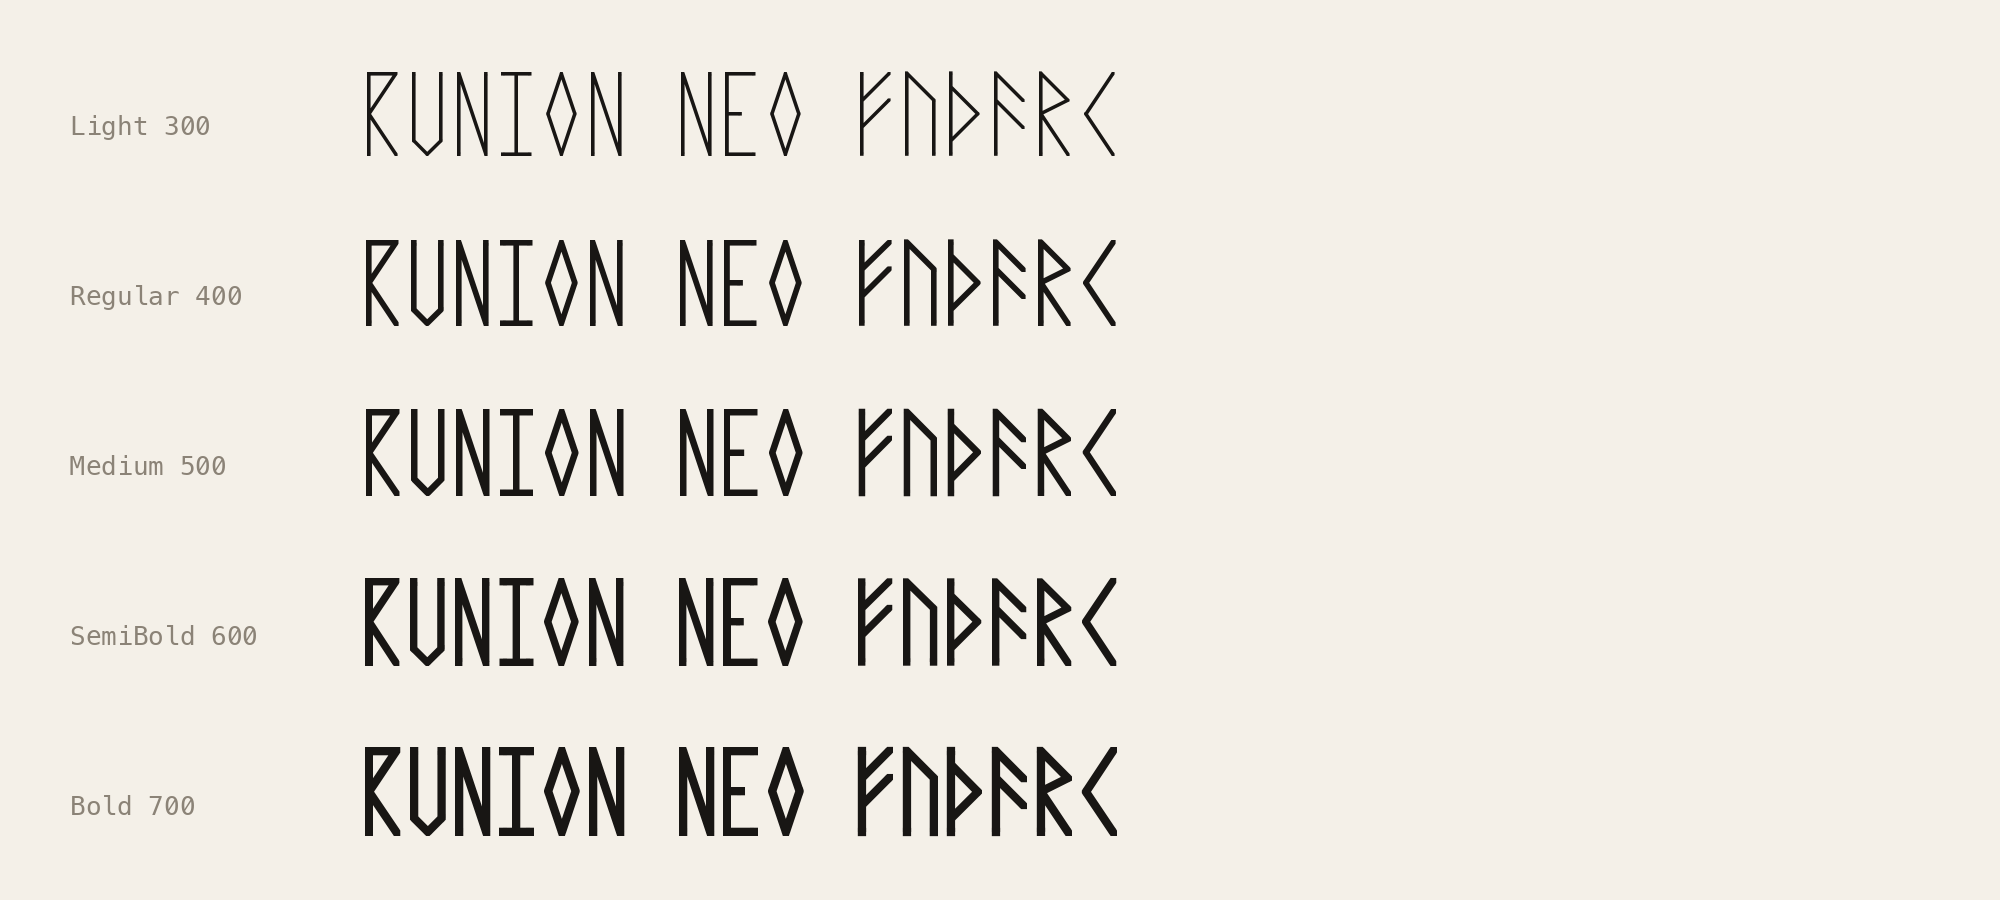
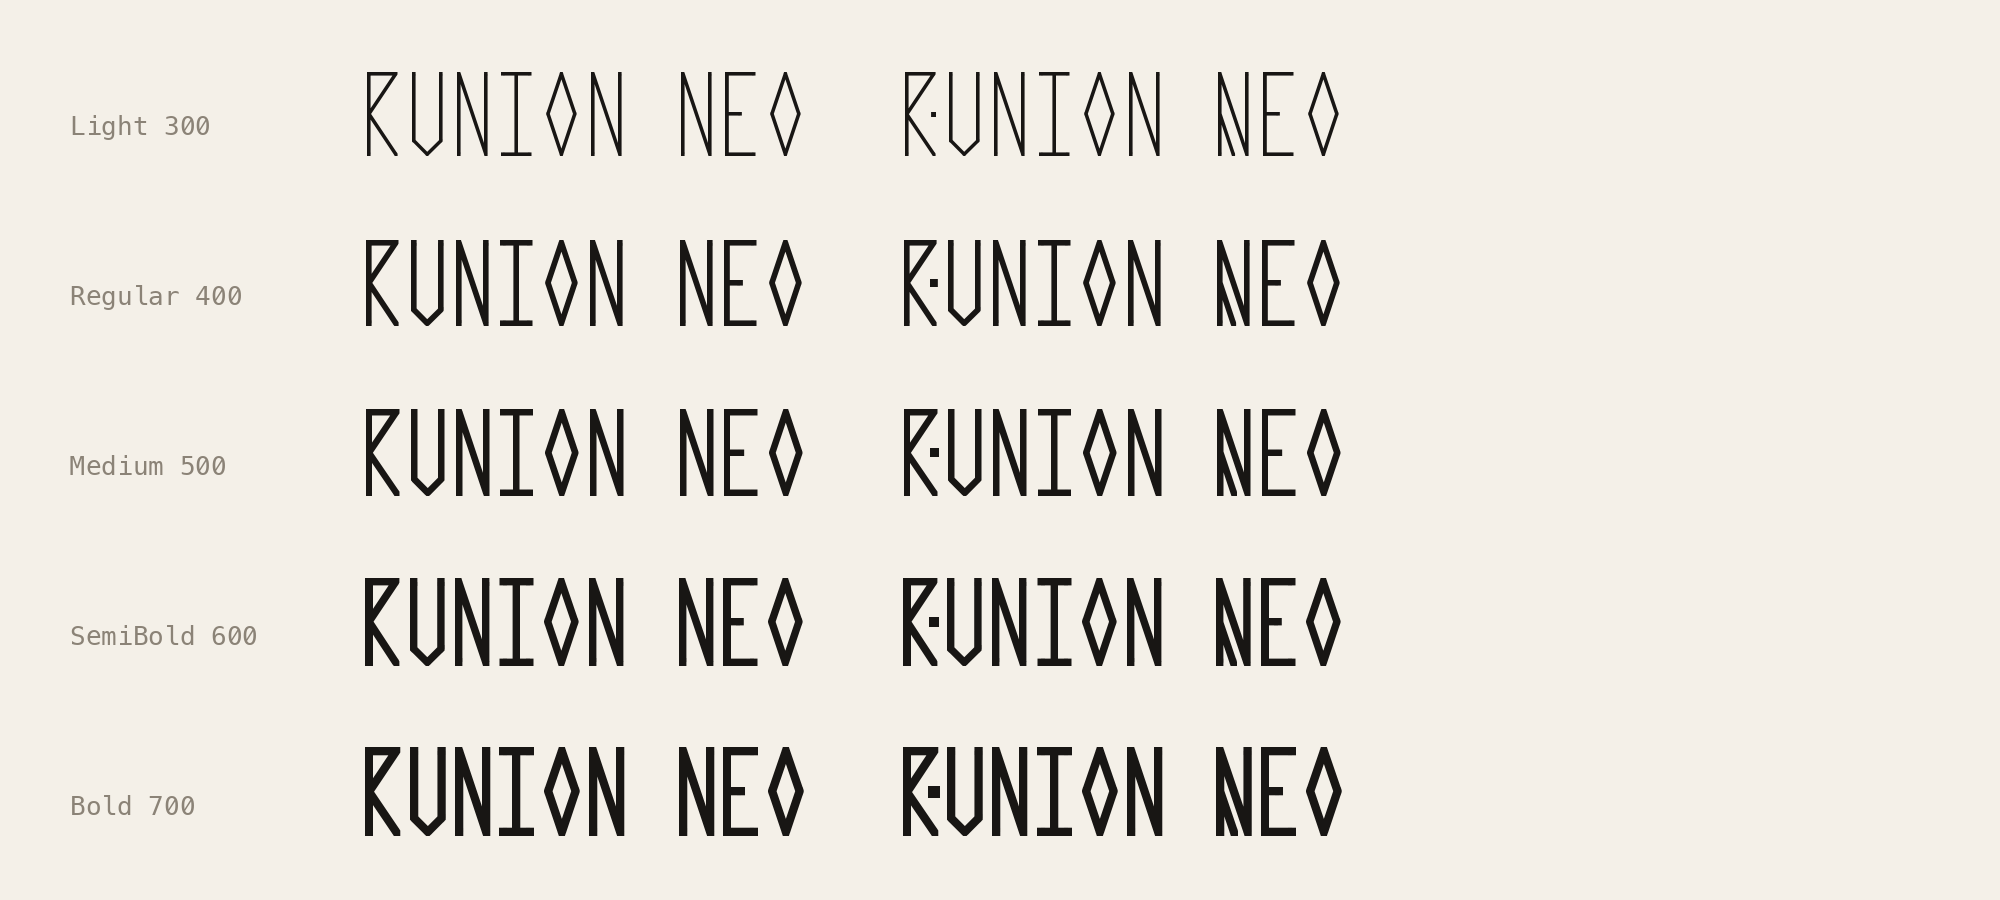
README redone around the Latin; runes are a historical footnote; images without runes

diff --git a/documentation/DESCRIPTION.en_us.html b/documentation/DESCRIPTION.en_us.html
@@ -3,14 +3,12 @@ Runion Neo is Latin with rune-vibes, made on a grid of 3 by 7 dots.
 Every glyph is made of straight lines from dot to dot, and every letter fills the full width of its narrow, tall, monospaced cell.
 </p>
 <p>
-The letters are built the way runes are cut: staves, branches and dots.
-The design is unicase. Each capital is its lowercase letter ornamented with dots and/or lines, many of them taken from runes:
-A takes the second arm of ansuz, M the cross of mannaz, H becomes dagaz, and letters with no line to add take a dot,
-the way medieval carvers made new letters from runes.
-Weights run from Light to Bold: the dots stay where they are and only the pen changes.
-The 24 runes of the Elder Futhark and a few later runes are included at their own codepoints in the Unicode Runic block.
+The design is sharp and unicase: each capital is its lowercase letter ornamented with dots and/or lines.
+Weights run from Light to Bold; the dots stay where they are and only the pen changes.
+Runion Neo is made for headlines, titles, signs and short text.
 </p>
 <p>
+Its angular look comes from runes, and the font also includes the Elder Futhark at its own codepoints.
 The typeface is defined in one text file of dot-to-dot connections. To contribute, see
 <a href="https://github.com/OneManMobile/runion-neo">github.com/OneManMobile/runion-neo</a>.
 </p>

diff --git a/index.html b/index.html
@@ -51,7 +51,7 @@
 <body>
 <main>
   <h1>Runion Neo</h1>
-  <p class="soft">Latin and the Elder Futhark on a grid of 3 × 7 dots. Straight lines only, from any dot to any dot. Monospace, narrow and tall, every letter fills the full width of a cell. One stroke width for everything. Unicase: each capital is its letter with a rune accent, a second bar, a rune's branch or one stung dot. The runes live at their own Unicode codepoints. Accents sit outside the letter, two rows above and two below.</p>
+  <p class="soft">Latin with rune-vibes, made on a 3 × 7 grid. Straight lines only, from any dot to any dot. Monospace, narrow and tall, every letter fills the full width of a cell. One pen per weight, from Light to Bold. Unicase: each capital is its lowercase letter ornamented with dots and/or lines. Accents sit outside the letter, two rows above and two below.</p>
 
   <h2>Type</h2>
   <textarea id="tester" rows="3" spellcheck="false" autocomplete="off" placeholder="Type anything here…">The North Wind sings through the Stones

diff --git a/sources/proof.py b/sources/proof.py
@@ -82,25 +82,8 @@ def weights():
         font.set_variation_by_axes([w])
         y = 40 + i * 170
         d.text((70, y + 70), f"{name} {w}", font=small, fill=SOFT)
-        d.text((360, y), "runion neo ᚠᚢᚦᚨᚱᚲ", font=font, fill=INK)
+        d.text((360, y), "runion neo  Runion Neo", font=font, fill=INK)
     img.save(DOC / "weights.png")
-
-
-
-def futhark():
-    runes = ["fehu ᚠ", "uruz ᚢ", "thurisaz ᚦ", "ansuz ᚨ", "raido ᚱ", "kaunan ᚲ", "gebo ᚷ", "wunjo ᚹ",
-             "hagalaz ᚺ", "naudiz ᚾ", "isa ᛁ", "jera ᛃ", "eihwaz ᛇ", "perthro ᛈ", "algiz ᛉ", "sowilo ᛊ",
-             "tiwaz ᛏ", "berkanan ᛒ", "ehwaz ᛖ", "mannaz ᛗ", "laguz ᛚ", "ingwaz ᛜ", "dagaz ᛞ", "othala ᛟ"]
-    cw, ch = 250, 330
-    img = Image.new("RGB", (8 * cw, 3 * ch + 40), PAPER)
-    d, big, small = ImageDraw.Draw(img), ImageFont.truetype(VF, 190), label_font(24)
-    for i, entry in enumerate(runes):
-        name, rune = entry.split()
-        x, y = (i % 8) * cw, (i // 8) * ch + 20
-        d.text((x + 125, y + 20), rune, font=big, fill=INK, anchor="ma")
-        d.text((x + 125, y + 262), name, font=small, fill=INK, anchor="ma")
-        d.text((x + 125, y + 292), f"U+{ord(rune):04X}", font=small, fill=SOFT, anchor="ma")
-    img.save(DOC / "futhark.png")
 
 
 def grid():
@@ -135,5 +118,5 @@ def grid():
 
 if __name__ == "__main__":
     DOC.mkdir(exist_ok=True)
-    specimen(), weights(), futhark(), grid()
-    print("→ documentation/specimen.png · weights.png · futhark.png · grid.png")
+    specimen(), weights(), grid()
+    print("→ documentation/specimen.png · weights.png · grid.png")

diff --git a/README.md b/README.md
@@ -1,61 +1,64 @@
 # Runion Neo
 
-Latin with rune-vibes, made on a 3 × 7 grid. Every line runs from dot to dot, with no curves. The face is monospaced, narrow and tall, and unicase: each capital is its lowercase letter ornamented with a dot or a line taken from the runes. It comes in every weight from Light to Bold, and it also draws the Elder Futhark.
+Latin with rune-vibes, made on a 3 × 7 grid.
+
+Runion Neo is a monospaced display typeface built from straight lines between dots. It is narrow and tall, unicase, and sharp: every letter fills the full width of its cell, every corner is cut, and every capital is its lowercase letter ornamented with dots and/or lines. It comes in every weight from Light to Bold.
 
 ![Runion Neo specimen](documentation/specimen.png)
 
-To try it, open [`index.html`](index.html) or run `make serve`. The playground has a type tester with a weight slider, a table of every character and a sketchpad for drawing glyphs on the dots.
+## Get it
 
-The font is one variable file, [`fonts/variable/RunionNeo[wght].ttf`](fonts/variable/RunionNeo%5Bwght%5D.ttf), with any weight from 300 to 700 and named Light, Regular, Medium, SemiBold and Bold. The web version is [`fonts/webfonts/RunionNeo[wght].woff2`](fonts/webfonts/RunionNeo%5Bwght%5D.woff2). The licence is the [SIL Open Font License 1.1](OFL.txt).
+- **Font:** [`fonts/variable/RunionNeo[wght].ttf`](fonts/variable/RunionNeo%5Bwght%5D.ttf), one variable file with every weight from 300 to 700 and named Light, Regular, Medium, SemiBold and Bold.
+- **Web:** [`fonts/webfonts/RunionNeo[wght].woff2`](fonts/webfonts/RunionNeo%5Bwght%5D.woff2).
+- **Playground:** open [`index.html`](index.html) or run `make serve`. It has a type tester with a weight slider, every character, and a sketchpad for drawing glyphs on the dots.
+- **Licence:** [SIL Open Font License 1.1](OFL.txt).
 
 ![Light to Bold](documentation/weights.png)
 
-## The system
+## How it is built
 
-![Construction on the dot grid](documentation/grid.png)
+![Letters on the dot grid](documentation/grid.png)
 
-The font is drawn on one grid of 3 columns and 7 rows of dots. A glyph is a list of lines between dots. Lowercase a is `00-16-20 02-22`: up from the bottom left to the top middle, down to the bottom right, and a bar across.
+Every glyph is drawn on the same grid of 3 columns and 7 rows of dots, and a glyph is nothing more than a list of lines between them. Lowercase a is `00-16-20 02-22`: up from the bottom left to the top middle, down to the bottom right, and a bar across.
 
 | Rule | What it means |
 | --- | --- |
-| Dot to dot | Every line starts and ends on a dot. Any dot can join any other dot, neighbour or not. There are no curves. |
+| Dot to dot | Every line starts and ends on a dot. Any dot can join any other dot. There are no curves. |
 | Full width | Every letter and digit touches both the left and the right column. |
-| One pen | One line thickness for everything in a weight: 32 units in Light, 50 in Regular, 74 in Bold (`@light`, `@stroke`, `@bold` in the source). The dots never move between weights; only the pen changes. |
-| The nib | Ink at a dot stays inside that dot's square, the nib. Corners are mitred and clipped to it, and line ends are cut flush with the grid, so every glyph has the same outer box. |
-| Dots | A dot that stands free is 1.4 pens wide (`@dot`), because a small square reads lighter than a line of the same width. Where a dot that big would crowd a line, it shrinks back towards one pen. |
-| Unicase | Lowercase and capitals are the same height. A lowercase letter is the plain letter, and its capital is the same letter with an ornament. |
-| Marks | Accents sit outside the letter, in two rows above and two below. Every glyph fills the same box, so one mark position fits all of them. The 140 or so accented letters are composed by the build from Unicode: letter plus mark. |
+| One pen | One line thickness per weight: 32 units in Light, 50 in Regular, 74 in Bold. The dots never move between weights; only the pen changes. |
+| The nib | Ink at a dot stays inside that dot's square. Corners are mitred and clipped to it and line ends are cut flush, so every glyph has the same outer box. |
+| Dots | A free-standing dot is 1.4 pens wide, so it reads as strongly as a line. Where that would crowd a line, it shrinks back towards one pen. |
+| Unicase | Lowercase and capitals are the same height. A capital is its lowercase letter plus an ornament. |
+| Accents | Accents sit outside the letter, in two rows above and two below. Because every glyph fills the same box, one position fits them all, and the 140 or so accented letters are composed automatically. |
 
 ### Lowercase
 
-The lowercase is sharp. O is four lines, a diamond. C is two strokes and G is C with a stem and a short bar that stops short of the first strokes. D is a stave and a point. P is a flag on the stave; R is P with a leg, and B is P with the flag mirrored below. S runs from the upper right down to the middle left, across, and down to the lower left.
+O is four lines, a diamond. C is two strokes; G is C with a stem and a short bar that stops short of the first strokes. D is a stave and a point. P is a flag on the stave, R is P with a leg, and B is P with the flag mirrored below. S runs from the upper right down to the middle left, across, and down to the lower left.
 
 ### Capitals
 
-A capital is its lowercase letter ornamented with dots and/or lines. Many of the ornaments come from runes.
-
 | Capitals | Ornament |
 | --- | --- |
-| A T | A second crossing bar, like the two arms of ansuz ᚨ: A's sits right above its own, T's below its top. |
+| A T | A second crossing bar: A's right above its own, T's below its top. |
 | E | The middle line splits in two, one step up and one step down. |
-| H | Dagaz ᛞ itself: the bar becomes a cross between the staves. |
+| H | The bar becomes a cross between the staves. |
 | I | A crossbar through the middle of the stem. |
-| L | A second bar right above its foot. |
-| F | Fehu ᚠ itself. |
-| K | The arms meet in the middle, like kaunan ᚲ. |
-| M W | The cross of mannaz ᛗ. |
-| N | A short branch from the middle of the first stave down to the bottom middle. |
-| P | The flag's diagonal is doubled two steps lower and closed at the right. |
+| L | A second bar right above the foot. |
+| F | The arms rise as diagonals. |
+| K | The arms meet in the middle. |
+| M W | A cross between the staves. |
+| N | A short branch from the middle of the first stave down to the bottom. |
+| P | The flag's diagonal is doubled and closed at the right. |
 | D | Two lines from the stave, crossing inside the triangle. |
 | J | A short stem hanging free under the top bar. |
-| Y | Algiz ᛉ: the Y with its stave continued to the top. |
+| Y | The stave runs on to the top. |
 | X Z | A bar across. |
-| B C G O Q R U V | One dot, in the counter or, for B, C and R, at the middle right. Medieval carvers made new letters from runes the same way, with a dot: the stung runes. |
+| B C G O Q R U V | One dot, in the counter or, for B, C and R, at the middle right. |
 | S | Two dots, one in each counter. |
 
-The other letters follow the same rules. Æ, Œ and Ð split their middle bar like E. ø is the diamond with a slash; Ø has a cross through the middle of the diamond instead. Å is drawn, not built from A and a ring: the A comes down one step and the ring becomes a dot above its tip. Capital Þ is the rune thurisaz ᚦ, the rune the letter comes from.
+The rest follow the same logic. Æ, Œ and Ð split their middle bar like E. ø is the diamond with a slash, and Ø has a small cross instead. Å is drawn as a lower A with a dot above its tip.
 
-All of it is defined in one text file, [`sources/glyphs.txt`](sources/glyphs.txt).
+Everything is defined in one text file, [`sources/glyphs.txt`](sources/glyphs.txt).
 
 ## Using the font
 
@@ -68,15 +71,9 @@ All of it is defined in one text file, [`sources/glyphs.txt`](sources/glyphs.txt
 .neo { font-family: "Runion Neo", monospace; font-weight: 300; }   /* any weight from 300 to 700 */
 ```
 
-Runion Neo is made for display: headlines, titles, signs and short text. On an ordinary screen it reads well from 16 px. At 12–14 px, use Regular or Bold; Light needs about 18 px. On high-resolution screens such as phones and Retina displays, every size halves.
+Runion Neo is made for headlines, titles, signs and short text. On an ordinary screen it reads well from 16 px; at 12–14 px use Regular or Bold, and give Light about 18 px. On high-resolution screens, such as phones and Retina displays, these sizes halve.
 
-| Feature | Default | Effect |
-| --- | --- | --- |
-| `mark` | on | Combining accents attach to any letter or rune. |
-| `ccmp` | on | Draws a/A + U+030A (combining ring) as å/Å, and ᚨ + U+030A as ansuz with a third arm. |
-| `ss01` | off | The older four-stroke form of the rune ᛊ. Turn it on with `font-feature-settings: "ss01"`. |
-
-The font covers the Google Fonts Latin Core set (319 characters) and the runes described below.
+It covers the Google Fonts Latin Core character set (319 characters).
 
 ## Building
 
@@ -88,41 +85,22 @@ make proof    # contact sheet (out/) and documentation images
 make test     # fontbakery, Google Fonts profile
 ```
 
-`sources/glyphs.txt` is the source. `sources/build.py` turns it into three master UFOs (`sources/RunionNeo-Light.ufo`, `-Regular.ufo`, `-Bold.ufo`) and `sources/RunionNeo.designspace`, and compiles the variable font from them with fontmake. In the masters every line, corner and dot is a separate piece, so each glyph has the same points at every weight and the masters interpolate exactly. `sources/runion.py` turns the dots and lines into outlines.
+`sources/glyphs.txt` is the source. `sources/build.py` turns it into three master UFOs (`sources/RunionNeo-Light.ufo`, `-Regular.ufo`, `-Bold.ufo`) and `sources/RunionNeo.designspace`, and compiles the variable font with fontmake. In the masters every line, corner and dot is a separate piece, so each glyph has the same points at every weight and the masters interpolate exactly. `sources/runion.py` turns the dots and lines into outlines.
 
-The master UFOs and the designspace are committed, so the font can also be built without `glyphs.txt`: `sources/config.yaml` lets `gftools builder` compile it (`make gftools`). After changing `glyphs.txt`, run `make build` first so the masters are up to date. Every push is built and checked with fontbakery by GitHub Actions; the font and the report are attached to each run.
+The masters and the designspace are committed, so the font can also be built without `glyphs.txt`: `sources/config.yaml` lets `gftools builder` compile it (`make gftools`). After changing `glyphs.txt`, run `make build` first. Every push is built and checked with fontbakery by GitHub Actions.
 
-To change a glyph, edit its line in `glyphs.txt` and run `make build`. The sketchpad in the playground writes the stroke code for you.
-
-## The runes
-
-![The 24 runes of the Elder Futhark](documentation/futhark.png)
-
-The font draws the 24 runes of the Elder Futhark, the oldest runic alphabet (2nd–8th century), on the same grid. They sit at their own codepoints in the Unicode Runic block and keep their historical structure. A few later runes are included as well: ᚳ ᚻ ᛝ from the Anglo-Saxon row, ᛅ from the Younger Futhark, the medieval ᚯ ᚧ ᚡ ᛩ, and the runic punctuation ᛫ ᛬ ᛭.
-
-The font never turns Latin letters into runes. To write in runes, the text itself has to contain runes, so that copying, searching and screen readers get runes too. The playground's "write in runes" switch converts what you type: letter by letter it follows the Elder Futhark, `th` becomes ᚦ and `ng` becomes ᛜ, and later runes fill the gaps (ᚳ for c, ᛩ for q, ᚡ for v, ᛅ for æ, ᚯ for ø). A keyboard layout with the Runic block works too.
-
-Where the narrow grid made a choice necessary:
-
-| Rune | Choice |
-| --- | --- |
-| ᚲ ᛃ ᛜ | These runes have no stave, and reference charts usually draw them smaller. Here they are full height. |
-| ᛒ ᚹ ᚱ | Two symmetric 45° bowls would need nine rows, so the bowls are steep on the outside and shallow on the inside. |
-| ᛞ | A cross from corner to corner clogs at this width, so a smaller 45° cross joins the staves. |
-| ᛊ | The three-stroke form; the older four-stroke form of the Kylver Stone (c. 400) is the `ss01` alternate. |
-| ᚧ | The reference form has a dot; a bar reads better inside the bowl. |
-| ᚨ + ◌̊ | Ansuz followed by a combining ring draws ansuz with a third arm, for å. Fonts without this drawing show ᚨ with a ring, which means the same. |
-
-Some letters share their shape with a rune on purpose: o and ᛜ, c and ᚲ, F and ᚠ, H and ᛞ, M and ᛗ, Þ and ᚦ. They are separate glyphs at their own codepoints. Runion is a typeface and makes no claim to be a scholarly reconstruction.
+To change a glyph, edit its line in `glyphs.txt` and run `make build`. The playground's sketchpad writes the stroke code for you.
 
 ## How it was made
 
-Runion Neo grew out of [Runion Basic](https://github.com/OneManMobile/Runion-Font), which shows runes when you type Latin letters. Neo keeps its grid, engine and runes and adds a real Latin alphabet, so Latin text is Latin and runic text is runic.
-
-Runion Neo was made with AI. I worked with Claude, Anthropic's AI model, in Claude Code. I set the concept and the rules: the dot grid, full-width letters, one pen per weight, the ornamented capitals, and the letterforms themselves. I decided what to keep and what to change, and reviewed the results as we went. Claude drew constructions on the grid, wrote the build code and the playground, researched the history and drafted this README. No existing font data or outlines were used. Every outline is generated from `sources/glyphs.txt`.
+Runion Neo grew out of [Runion Basic](https://github.com/OneManMobile/Runion-Font), an experiment with the same grid. It was made with AI: I worked with Claude, Anthropic's AI model, in Claude Code. I set the concept and the rules — the dot grid, full-width letters, one pen per weight, the ornamented capitals — and the letterforms themselves, decided what to keep and what to change, and reviewed the results as we went. Claude drew constructions on the grid, wrote the build code and the playground, and drafted this README. No existing font data or outlines were used; every outline is generated from `sources/glyphs.txt`.
 
 ## Licence
 
 Copyright 2026 The Runion Neo Project Authors (https://github.com/OneManMobile/runion-neo).
 
 This Font Software is licensed under the SIL Open Font License, Version 1.1. The licence is in [`OFL.txt`](OFL.txt) and is also available with a FAQ at https://openfontlicense.org.
+
+---
+
+**A historical footnote.** The look comes from runes. Their angular shapes were cut into wood and stone with straight strokes, and several of the capital ornaments are runes: H is dagaz ᛞ, M is mannaz ᛗ, F is fehu ᚠ, Y is algiz ᛉ, the second bar of A echoes the arms of ansuz ᚨ, and the dotted capitals follow the medieval stung runes, which made new letters by adding a dot. The font also draws the 24 runes of the Elder Futhark and a few later ones at their own Unicode codepoints, with an optional older form of ᛊ (`ss01`); the playground can convert text into them. Runion Neo is a typeface and makes no claim to be a reconstruction.
